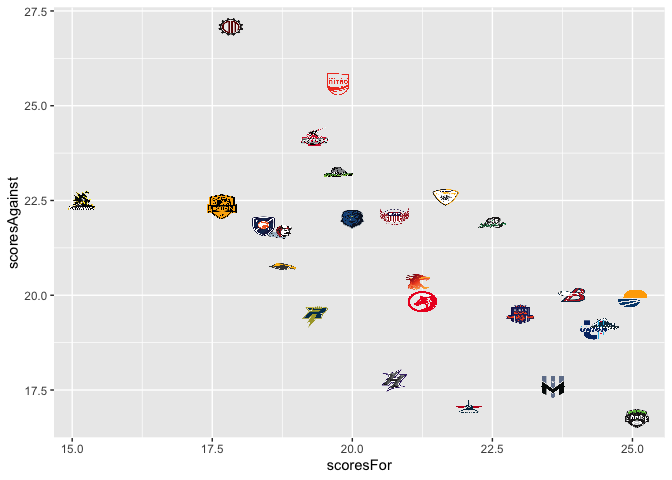
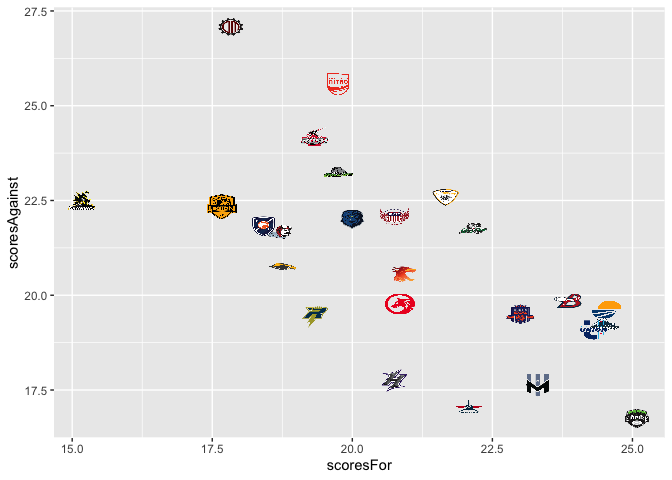
initial pkgdown commit

diff --git a/README.md b/README.md
@@ -36,18 +36,18 @@ str(team_stats)
 #> 'data.frame':    25 obs. of  14 variables:
 #>  $ teamID         : chr  "empire" "flyers" "summit" "union" ...
 #>  $ teamName       : chr  "Empire" "Flyers" "Summit" "Union" ...
-#>  $ gamesPlayed    : int  12 12 12 12 12 12 12 12 12 12 ...
-#>  $ wins           : num  1 0.92 0.92 0.92 0.83 0.83 0.75 0.75 0.75 0.67 ...
-#>  $ losses         : num  0 0.08 0.08 0.08 0.17 0.17 0.25 0.25 0.25 0.33 ...
+#>  $ gamesPlayed    : int  12 12 12 12 13 13 13 12 13 12 ...
+#>  $ wins           : num  1 0.92 0.92 0.92 0.85 0.85 0.77 0.75 0.69 0.67 ...
+#>  $ losses         : num  0 0.08 0.08 0.08 0.15 0.15 0.23 0.25 0.31 0.33 ...
 #>  $ scoresFor      : num  25.1 22.1 24.5 24.3 23.9 ...
-#>  $ scoresAgainst  : num  16.8 17.1 19.2 19.1 20 ...
-#>  $ completions    : num  262 259 246 246 268 ...
-#>  $ turnovers      : num  13.5 13.7 15.2 15.8 14.2 ...
-#>  $ blocks         : num  11.5 9.33 11.17 9.58 10.25 ...
-#>  $ holds          : num  15 15.5 16 16.3 16.4 ...
-#>  $ breaks         : num  9.92 6.42 8.5 8 7.33 8.75 5.08 8.08 9.33 6.92 ...
-#>  $ huckCompletions: num  7.42 8.58 10.17 7.33 6.58 ...
-#>  $ huckTurnovers  : num  3.25 4.75 5 3.42 3.83 4.42 2.92 4.83 4.83 2.83 ...
+#>  $ scoresAgainst  : num  16.8 17.1 19.2 19.1 19.9 ...
+#>  $ completions    : num  262 259 246 246 270 ...
+#>  $ turnovers      : num  13.5 13.7 15.2 15.8 13.7 ...
+#>  $ blocks         : num  11.5 9.33 11.17 9.58 10.15 ...
+#>  $ holds          : num  15 15.5 16 16.3 16.5 ...
+#>  $ breaks         : num  9.92 6.42 8.5 8 7.15 8.77 9.15 8.08 5.15 6.92 ...
+#>  $ huckCompletions: num  7.42 8.58 10.17 7.33 6.31 ...
+#>  $ huckTurnovers  : num  3.25 4.75 5 3.42 3.77 4.46 4.62 4.83 3.31 2.83 ...
 ```
 
 ``` r
@@ -90,7 +90,7 @@ library(ggimage)
 #>   is available with R version '4.2'; see https://bioconductor.org/install
 
 ggplot2::ggplot(team_stats, aes(x = scoresFor, y = scoresAgainst)) +
-  geom_image(aes(image = logoURL), asp = 1)
+  geom_image(aes(image = logoURL)) 
 ```
 
 <img src="man/figures/README-unnamed-chunk-5-1.png" width="100%" />
